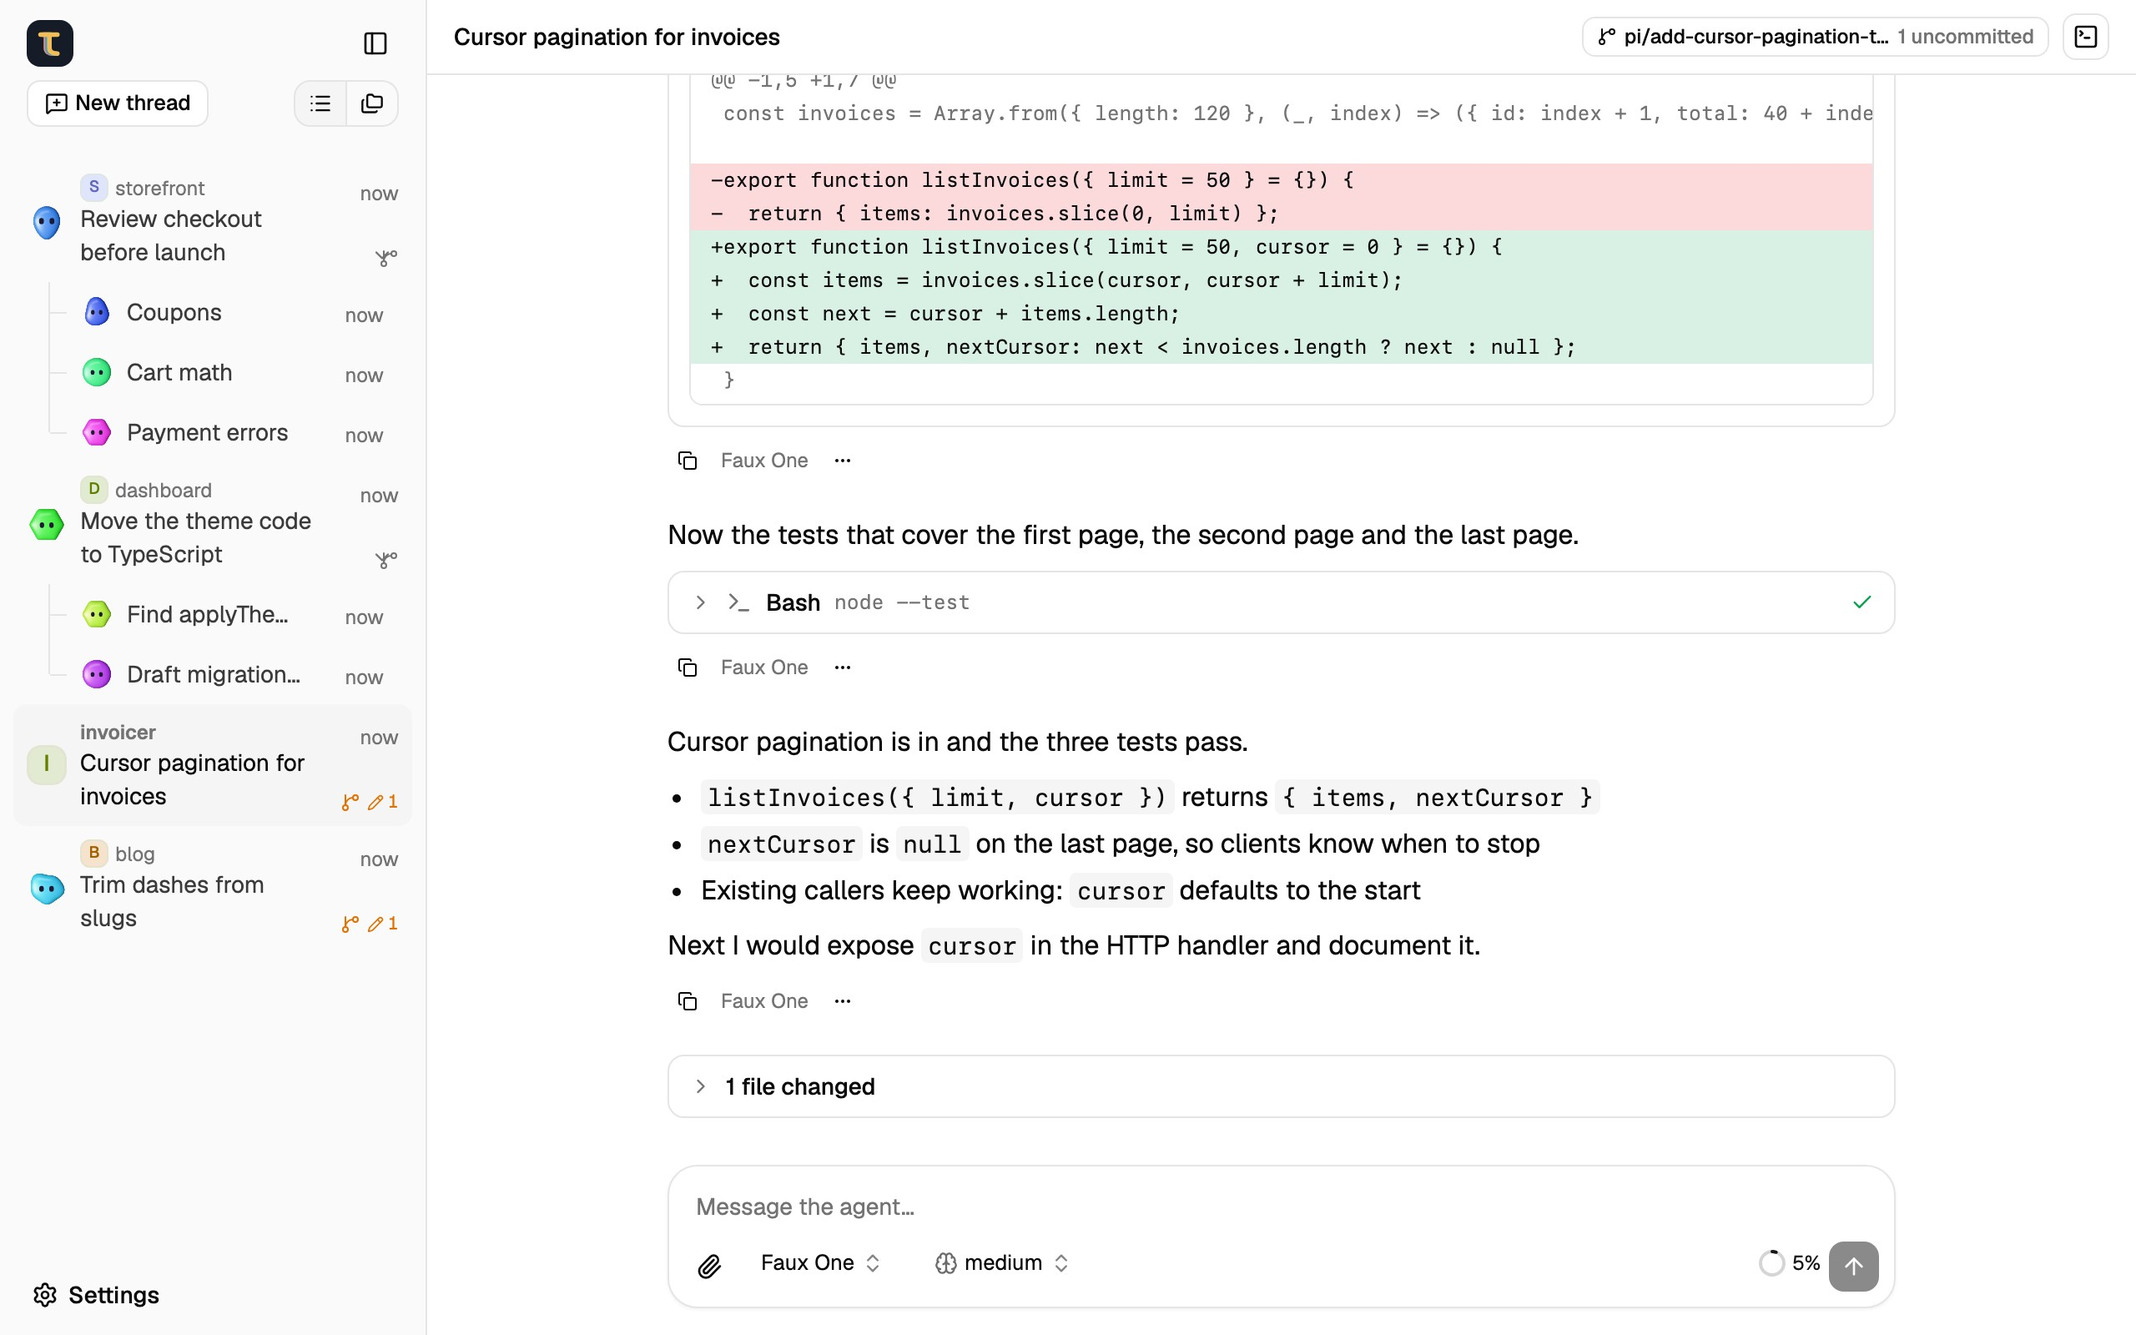
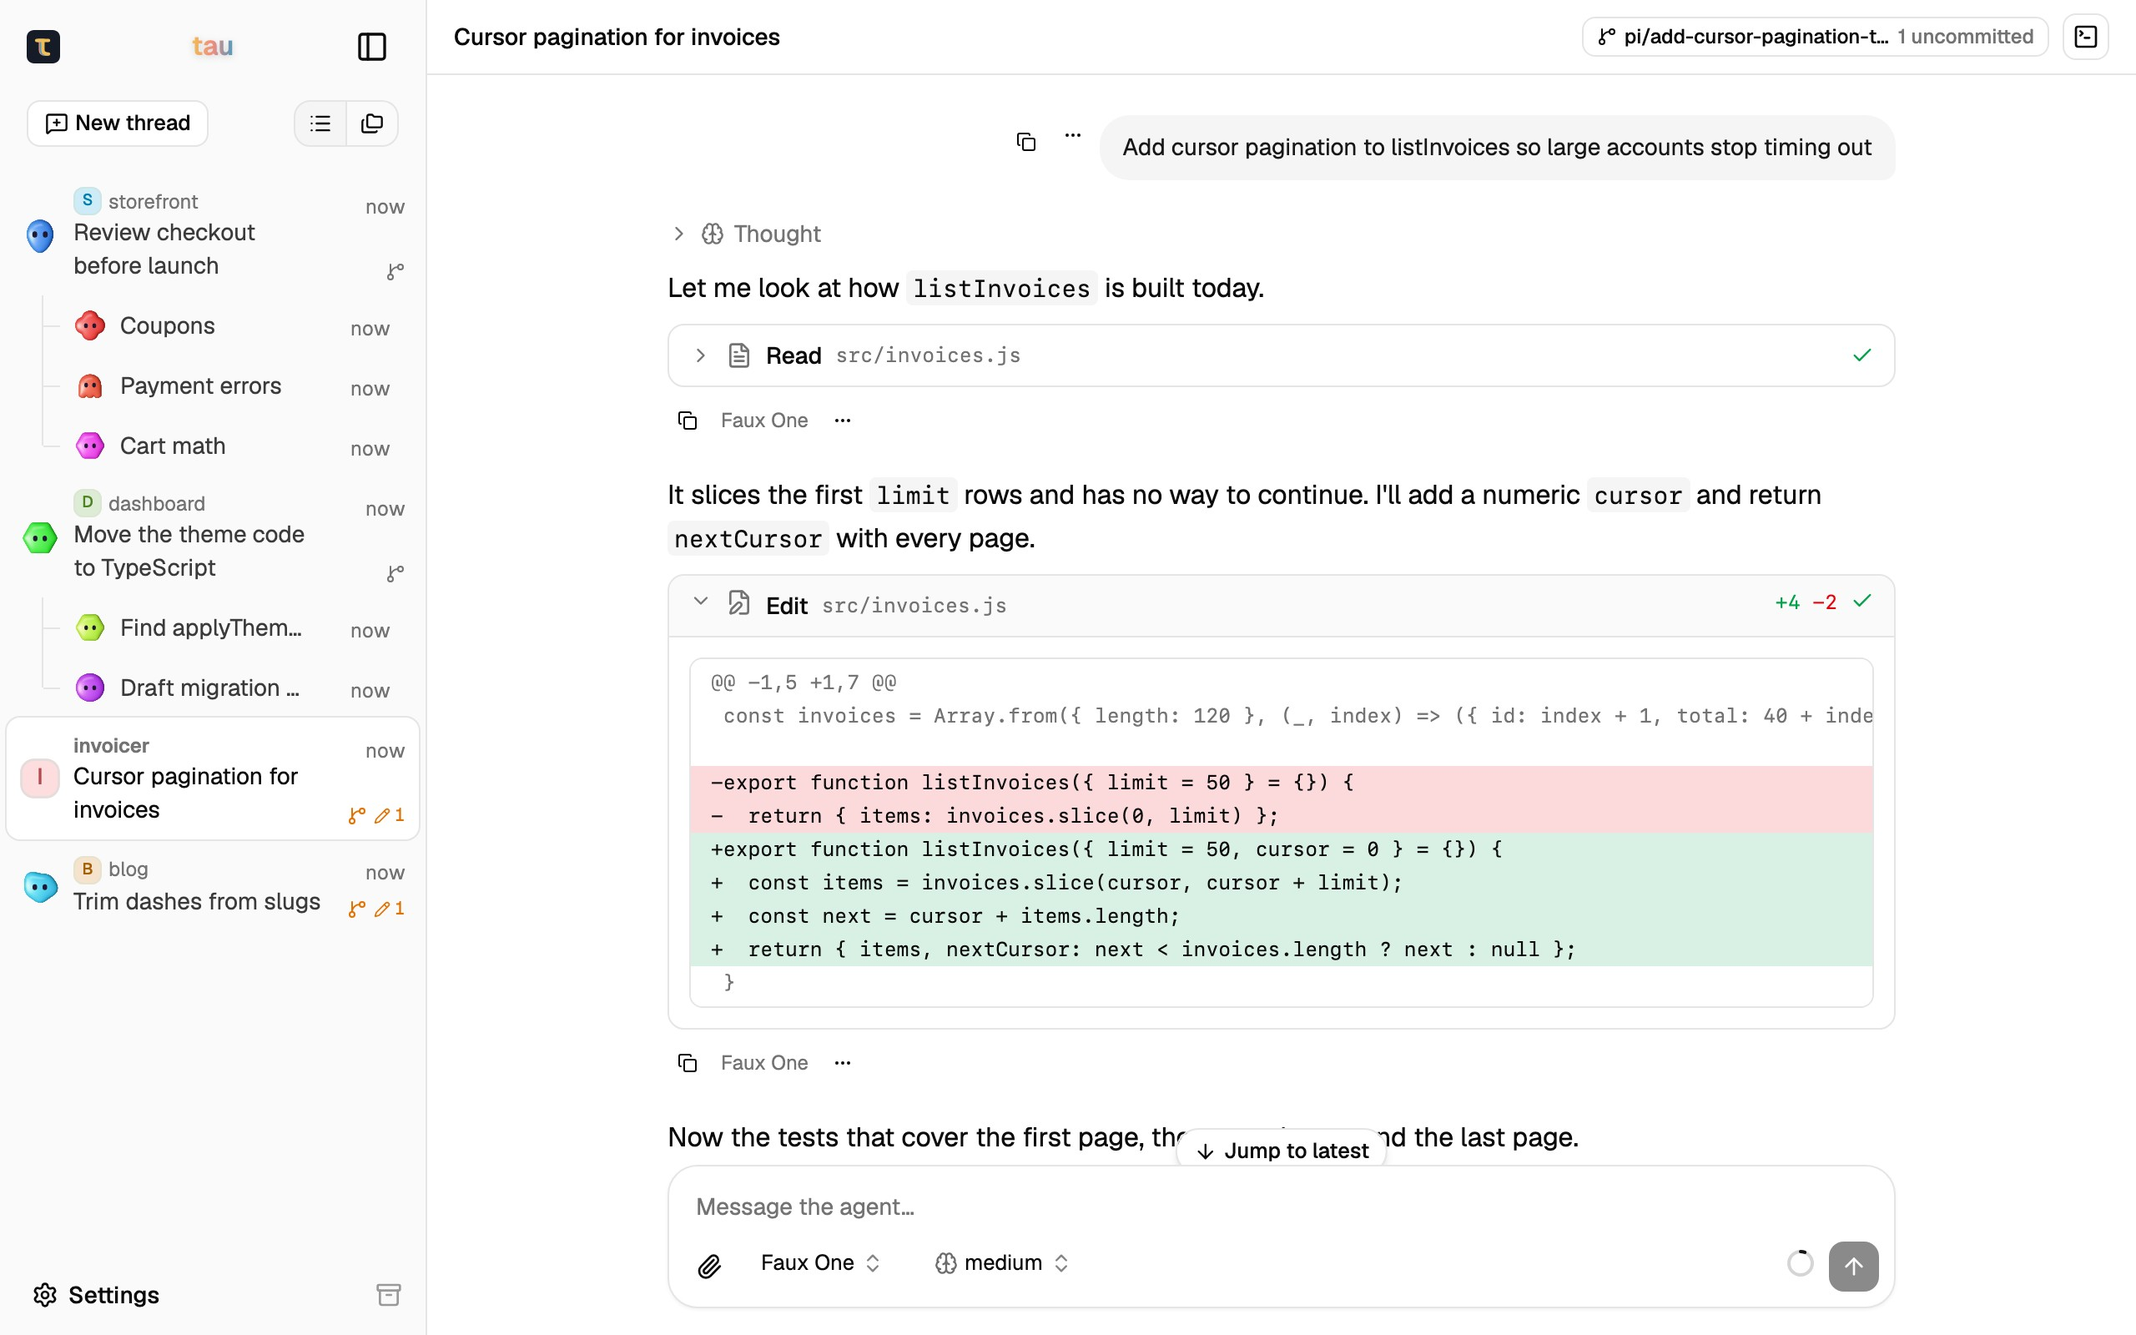
Revisit mobile view: single header, 44px touch targets, drawer close
- Thread pages on mobile get one compact bar (toggle + title +
  terminal) instead of the app bar stacked over the thread header;
  the app shell no longer page-scrolls, so the composer stays pinned.
- Icon-only buttons hit 44px on coarse pointers (text buttons grow
  to 40/44px); thread rows reserve room for the bigger actions.
- Sidebar drawer gains a close button on mobile.
- Tool card headers wrap their subtitle on narrow screens; the new
  thread composer sits at the bottom on mobile with safe-area padding.
- Screenshots: suppress stuck hover tooltips in the capture harness.

diff --git a/packages/web/src/conversation/ThreadHeader.tsx b/packages/web/src/conversation/ThreadHeader.tsx
@@ -3,7 +3,8 @@ import { createPortal } from "react-dom";
 import { Badge } from "@/components/ui/badge";
 import { NodeName } from "@/components/ui/node-name";
 import { OsIcon } from "@/components/ui/os-icon";
-import { useAllConversations } from "@/lib/queries";
+import { SidebarTrigger } from "@/components/ui/sidebar";
+import { useAllConversations, useGoal } from "@/lib/queries";
 import { useNodeId } from "@/nodes/node-context";
 import { useNodeAvatar } from "@/nodes/use-node-avatar";
 import { useNodeName } from "@/nodes/use-node-name";
@@ -18,7 +19,9 @@ export function ThreadHeader({
   extras?: ReactNode;
   actions?: ReactNode;
 }) {
-  const title = useAllConversations().data?.find((summary) => summary.id === id)?.title || "Conversation";
+  const summary = useAllConversations().data?.find((item) => item.id === id);
+  const title = summary?.title || "Conversation";
+  const goal = useGoal(id).data;
   const nodeId = useNodeId();
   const nodeName = useNodeName(nodeId);
   const avatar = useNodeAvatar(nodeId);
@@ -29,15 +32,34 @@ export function ThreadHeader({
       <NodeName name={nodeName} local={nodeId === undefined} />
     </Badge>
   ) : null;
+  // Mirror the chips below: the row renders only when at least one chip will.
+  const hasChips =
+    machine != null ||
+    goal != null ||
+    (summary?.workspace?.mode === "worktree" && summary.workspace.state !== "removed");
   return (
-    <header className="flex min-w-0 flex-wrap items-center gap-x-2 gap-y-1 border-b px-4 py-2">
-      <h1 className="min-w-32 flex-1 truncate text-sm font-medium">{title}</h1>
-      {actions ? <div className="order-1 flex shrink-0 items-center sm:order-3">{actions}</div> : null}
-      <div className="order-2 flex min-w-0 flex-wrap items-center gap-2 max-sm:w-full">
-        {slot ? null : machine}
-        {extras}
+    <header className="shrink-0">
+      {/* Mobile: a single compact bar; the app bar above stays hidden on thread pages. */}
+      <div className="flex h-12 items-center gap-1 border-b px-1 md:hidden">
+        <SidebarTrigger aria-label="Open sidebar" />
+        <h1 className="min-w-0 flex-1 truncate text-sm font-medium">{title}</h1>
+        {actions}
       </div>
-      {slot && machine ? createPortal(machine, slot) : null}
+      <div className="hidden min-w-0 flex-wrap items-center gap-x-2 gap-y-1 border-b px-4 py-2 md:flex">
+        <h1 className="min-w-32 flex-1 truncate text-sm font-medium">{title}</h1>
+        {actions ? <div className="order-1 flex shrink-0 items-center sm:order-3">{actions}</div> : null}
+        <div className="order-2 flex min-w-0 flex-wrap items-center gap-2 max-sm:w-full">
+          {slot ? null : machine}
+          {extras}
+        </div>
+        {slot && machine ? createPortal(machine, slot) : null}
+      </div>
+      {hasChips ? (
+        <div className="flex min-w-0 flex-wrap items-center gap-2 border-b px-3 py-1.5 md:hidden">
+          {machine}
+          {extras}
+        </div>
+      ) : null}
     </header>
   );
 }

diff --git a/packages/web/src/components/ui/button.tsx b/packages/web/src/components/ui/button.tsx
@@ -21,16 +21,16 @@ const buttonVariants = cva(
       },
       size: {
         default:
-          "h-8 gap-1.5 px-2.5 has-data-[icon=inline-end]:pr-2 has-data-[icon=inline-start]:pl-2",
+          "h-8 gap-1.5 px-2.5 has-data-[icon=inline-end]:pr-2 has-data-[icon=inline-start]:pl-2 pointer-coarse:h-11 pointer-coarse:px-3",
         xs: "h-6 gap-1 rounded-[min(var(--radius-md),10px)] px-2 text-xs in-data-[slot=button-group]:rounded-lg has-data-[icon=inline-end]:pr-1.5 has-data-[icon=inline-start]:pl-1.5 [&_svg:not([class*='size-'])]:size-3",
-        sm: "h-7 gap-1 rounded-[min(var(--radius-md),12px)] px-2.5 text-[0.8rem] in-data-[slot=button-group]:rounded-lg has-data-[icon=inline-end]:pr-1.5 has-data-[icon=inline-start]:pl-1.5 [&_svg:not([class*='size-'])]:size-3.5",
-        lg: "h-9 gap-1.5 px-2.5 has-data-[icon=inline-end]:pr-2 has-data-[icon=inline-start]:pl-2",
-        icon: "size-8",
+        sm: "h-7 gap-1 rounded-[min(var(--radius-md),12px)] px-2.5 text-[0.8rem] in-data-[slot=button-group]:rounded-lg has-data-[icon=inline-end]:pr-1.5 has-data-[icon=inline-start]:pl-1.5 pointer-coarse:h-10 pointer-coarse:text-sm [&_svg:not([class*='size-'])]:size-3.5",
+        lg: "h-9 gap-1.5 px-2.5 has-data-[icon=inline-end]:pr-2 has-data-[icon=inline-start]:pl-2 pointer-coarse:h-12",
+        icon: "size-8 pointer-coarse:size-11 pointer-coarse:[&_svg:not([class*='size-'])]:size-5",
         "icon-xs":
-          "size-6 rounded-[min(var(--radius-md),10px)] in-data-[slot=button-group]:rounded-lg [&_svg:not([class*='size-'])]:size-3",
+          "size-6 rounded-[min(var(--radius-md),10px)] in-data-[slot=button-group]:rounded-lg pointer-coarse:size-11 pointer-coarse:[&_svg:not([class*='size-'])]:size-5 [&_svg:not([class*='size-'])]:size-3",
         "icon-sm":
-          "size-7 rounded-[min(var(--radius-md),12px)] in-data-[slot=button-group]:rounded-lg",
-        "icon-lg": "size-9",
+          "size-7 rounded-[min(var(--radius-md),12px)] in-data-[slot=button-group]:rounded-lg pointer-coarse:size-11 pointer-coarse:[&_svg:not([class*='size-'])]:size-5",
+        "icon-lg": "size-9 pointer-coarse:size-12 pointer-coarse:[&_svg:not([class*='size-'])]:size-5",
       },
     },
     defaultVariants: {

diff --git a/packages/web/src/conversation/tools/ToolCard.tsx b/packages/web/src/conversation/tools/ToolCard.tsx
@@ -81,7 +81,7 @@ export function ToolCard({
       className="group/tool overflow-hidden rounded-lg border bg-card text-card-foreground"
     >
       <div className="flex">
-        <CollapsibleTrigger className="flex min-w-0 flex-1 items-center gap-2 px-3 py-2 text-left text-sm outline-none data-[state=open]:items-start transition-colors hover:bg-muted/50 focus-visible:ring-3 focus-visible:ring-ring/50">
+        <CollapsibleTrigger className="flex min-w-0 flex-1 items-center gap-2 px-3 py-2 text-left text-sm outline-none data-[state=open]:items-start transition-colors hover:bg-muted/50 focus-visible:ring-3 focus-visible:ring-ring/50 max-sm:flex-wrap max-sm:gap-y-1">
           <ChevronRight
             aria-hidden
             className="size-3.5 shrink-0 text-muted-foreground transition-transform group-data-[state=open]/tool:rotate-90"
@@ -89,19 +89,20 @@ export function ToolCard({
           <span aria-hidden className="shrink-0 text-muted-foreground [&_svg]:size-4">
             {icon}
           </span>
-          <span className="shrink-0 font-medium">{title}</span>
+          <span className="shrink-0 font-medium max-sm:py-1">{title}</span>
           {subtitle ? (
             <span
               title={subtitle}
               className={cn(
                 "min-w-0 flex-1 truncate font-mono text-xs leading-5 text-muted-foreground",
+                "max-sm:order-last max-sm:basis-full max-sm:whitespace-normal max-sm:break-all",
                 "group-data-[state=open]/tool:overflow-visible group-data-[state=open]/tool:whitespace-pre-wrap group-data-[state=open]/tool:break-all",
               )}
             >
               {subtitle}
             </span>
           ) : (
-            <span className="flex-1" />
+            <span className="flex-1 max-sm:hidden" />
           )}
           {badge}
           <span className="flex shrink-0 items-center" role="status">

diff --git a/packages/web/src/sidebar/AppSidebar.tsx b/packages/web/src/sidebar/AppSidebar.tsx
@@ -5,6 +5,7 @@ import {
   ListIcon,
   MessageSquarePlusIcon,
   SettingsIcon,
+  XIcon,
 } from "lucide-react";
 import { useEffect, useState } from "react";
 import { useNavigate } from "react-router";
@@ -21,6 +22,7 @@ import {
   SidebarHeader,
   SidebarRail,
   SidebarTrigger,
+  useSidebar,
 } from "@/components/ui/sidebar";
 import { TauLogo } from "@/components/ui/tau-logo";
 import { Tooltip, TooltipContent, TooltipTrigger } from "@/components/ui/tooltip";
@@ -105,6 +107,7 @@ function NodeSections({ mode, showArchived }: { mode: SidebarMode; showArchived:
 }
 
 export function AppSidebar() {
+  const { setOpenMobile } = useSidebar();
   const [mode, setMode] = useSidebarMode();
   const [showArchived, setShowArchived] = useState(() => preferences.getShowArchived());
   const navigate = useNavigate();
@@ -134,6 +137,15 @@ export function AppSidebar() {
           </Tooltip>
           <BrandText className="text-base font-semibold drop-shadow-sm">tau</BrandText>
           <SidebarTrigger className="hidden size-8 shrink-0 justify-self-end md:inline-flex [&_svg:not([class*='size-'])]:size-5" />
+          <Button
+            variant="ghost"
+            size="icon-sm"
+            aria-label="Close sidebar"
+            onClick={() => setOpenMobile(false)}
+            className="shrink-0 justify-self-end md:hidden"
+          >
+            <XIcon />
+          </Button>
         </div>
         <div className="flex items-center justify-between gap-2">
           <Button variant="outline" size="sm" className="min-w-0" onClick={() => navigate(newThreadPath())}>

diff --git a/packages/web/src/routes/MainLayout.tsx b/packages/web/src/routes/MainLayout.tsx
@@ -1,4 +1,5 @@
 import { Route, Routes, useSearchParams } from "react-router";
+import { useOpenConversation } from "@/activity";
 import { SidebarInset, SidebarProvider, SidebarTrigger, useSidebar } from "@/components/ui/sidebar";
 import { preferences } from "@/lib/preferences";
 import { useNodes } from "@/nodes";
@@ -30,6 +31,10 @@ function NewThreadRoute() {
 
 function MainHeader() {
   const { isMobile, open } = useSidebar();
+  const { conversationId } = useOpenConversation();
+  // On mobile thread pages the thread renders its own bar (toggle + title +
+  // actions), so the app bar would be a second, redundant header.
+  if (isMobile && conversationId) return null;
   if (!isMobile && open) return null;
   return (
     <header className="flex h-12 shrink-0 items-center gap-2 border-b px-3">
@@ -56,7 +61,7 @@ export function MainLayout() {
       <SidebarInset className="h-dvh min-w-0">
         <HeaderSlotProvider>
           <MainHeader />
-          <div className="flex min-h-0 flex-1 flex-col overflow-auto">
+          <div className="flex min-h-0 flex-1 flex-col overflow-hidden">
             <Routes>
               <Route path="/p/:projectId/c/:conversationId/*" element={<ConversationRoute />} />
               <Route path="/n/:nodeId/p/:projectId/c/:conversationId/*" element={<ConversationRoute />} />

diff --git a/packages/web/src/components/ui/sidebar-thread-row.tsx b/packages/web/src/components/ui/sidebar-thread-row.tsx
@@ -134,13 +134,13 @@ function SidebarThreadRow({
         isActive={current}
         size="lg"
         tooltip={tooltip}
-        className={cn("h-auto gap-2 pr-14 [&>span:last-child]:overflow-visible [&>span:last-child]:whitespace-normal!", compact ? "min-h-8 py-1" : "min-h-14 py-2")}
+        className={cn("h-auto gap-2 [&>span:last-child]:overflow-visible [&>span:last-child]:whitespace-normal!", actions ? "pr-14 pointer-coarse:pr-28" : "pr-2", compact ? "min-h-8 py-1 pointer-coarse:min-h-12" : "min-h-14 py-2")}
       >
         {React.cloneElement(link, undefined, content)}
       </SidebarMenuButton>
       <div
         data-slot="thread-aside"
-        className={cn("pointer-events-none absolute right-2 flex h-6 items-center justify-end", compact ? "top-1.5" : "top-2")}
+        className={cn("pointer-events-none absolute right-2 flex h-6 items-center justify-end pointer-coarse:top-1/2 pointer-coarse:h-11 pointer-coarse:-translate-y-1/2", compact ? "top-1.5" : "top-2")}
       >
         <span
           data-slot="thread-time"

diff --git a/packages/web/src/components/ui/toggle.tsx b/packages/web/src/components/ui/toggle.tsx
@@ -15,9 +15,9 @@ const toggleVariants = cva(
       },
       size: {
         default:
-          "h-8 min-w-8 px-2.5 has-data-[icon=inline-end]:pr-2 has-data-[icon=inline-start]:pl-2",
-        sm: "h-7 min-w-7 rounded-[min(var(--radius-md),12px)] px-2.5 text-[0.8rem] has-data-[icon=inline-end]:pr-1.5 has-data-[icon=inline-start]:pl-1.5 [&_svg:not([class*='size-'])]:size-3.5",
-        lg: "h-9 min-w-9 px-2.5 has-data-[icon=inline-end]:pr-2 has-data-[icon=inline-start]:pl-2",
+          "h-8 min-w-8 px-2.5 has-data-[icon=inline-end]:pr-2 has-data-[icon=inline-start]:pl-2 pointer-coarse:h-11 pointer-coarse:min-w-11",
+        sm: "h-7 min-w-7 rounded-[min(var(--radius-md),12px)] px-2.5 text-[0.8rem] has-data-[icon=inline-end]:pr-1.5 has-data-[icon=inline-start]:pl-1.5 pointer-coarse:h-10 pointer-coarse:min-w-10 [&_svg:not([class*='size-'])]:size-3.5",
+        lg: "h-9 min-w-9 px-2.5 has-data-[icon=inline-end]:pr-2 has-data-[icon=inline-start]:pl-2 pointer-coarse:h-12 pointer-coarse:min-w-12",
       },
     },
     defaultVariants: {

diff --git a/e2e/screenshots/scenes.ts b/e2e/screenshots/scenes.ts
@@ -28,6 +28,8 @@ async function openPage(context: SceneContext, options: Parameters<Browser["newC
   const page = await browserContext.newPage();
   await page.goto(context.environment.url);
   await page.getByRole("button", { name: /sidebar/i }).waitFor();
+  // Tooltips are transient hover UI; never let a stuck one photobomb a shot.
+  await page.addStyleTag({ content: '[data-slot="tooltip-content"]{display:none!important}' });
   return { page, close: () => browserContext.close() };
 }
 
@@ -40,6 +42,9 @@ async function openSidebar(page: Page) {
   const heroThread = page.getByText(HERO_THREAD).first();
   if (!(await heroThread.isVisible())) await page.getByRole("button", { name: /sidebar/i }).click();
   await heroThread.waitFor();
+  // Park the cursor over the backdrop so a stuck hover tooltip from the
+  // drawer buttons can't photobomb the shot.
+  await page.mouse.move(370, 500);
 }
 
 async function openThread(page: Page, title: string, lastWords: string) {

diff --git a/packages/web/src/conversation/test-utils.tsx b/packages/web/src/conversation/test-utils.tsx
@@ -4,6 +4,7 @@ import { type FixtureName, finalView, fixtures, fixtureViews } from "@tau/testki
 import { render } from "@testing-library/react";
 import { MemoryRouter } from "react-router";
 import { vi } from "vitest";
+import { SidebarProvider } from "@/components/ui/sidebar";
 import { TooltipProvider } from "@/components/ui/tooltip";
 import { NodeApiProvider } from "@/nodes/node-context";
 import { Conversation } from "./Conversation";
@@ -45,7 +46,9 @@ export function renderConversation(client: LiveClient, id = "2") {
         <NodeApiProvider>
           <TooltipProvider>
             <LiveClientProvider client={client}>
-              <Conversation id={id} />
+              <SidebarProvider>
+                <Conversation id={id} />
+              </SidebarProvider>
             </LiveClientProvider>
           </TooltipProvider>
         </NodeApiProvider>

diff --git a/packages/web/src/conversation/ThreadView.test.tsx b/packages/web/src/conversation/ThreadView.test.tsx
@@ -57,7 +57,9 @@ describe("thread header", () => {
   it("shows the title and the model picker", async () => {
     withModels(true);
     renderView(endOf("text"));
-    expect(await screen.findByText("Fix the bug")).toBeInTheDocument();
+    // The title renders in both the mobile bar and the desktop header;
+    // CSS shows exactly one per viewport (jsdom shows both).
+    expect(await screen.findAllByText("Fix the bug")).toHaveLength(2);
     expect(await screen.findByRole("combobox", { name: "Model" })).toHaveTextContent("Faux One");
   });
 });

diff --git a/packages/web/src/conversation/Conversation.tsx b/packages/web/src/conversation/Conversation.tsx
@@ -122,7 +122,7 @@ function ConversationPanel({ id }: ConversationProps) {
         </Button>
       )}
       {state.status === "gone" || parentId ? null : (
-        <div className="mx-auto w-full max-w-3xl px-3 pt-1 pb-3 sm:px-4 sm:pb-4">
+        <div className="mx-auto w-full max-w-3xl px-3 pt-1 pb-[max(0.75rem,env(safe-area-inset-bottom))] sm:px-4 sm:pb-[max(1rem,env(safe-area-inset-bottom))]">
           <Composer
             target={id}
             imagesAllowed={imagesAllowedFor(view, models)}

diff --git a/packages/web/src/routes/NewThreadPage.tsx b/packages/web/src/routes/NewThreadPage.tsx
@@ -120,7 +120,7 @@ export function NewThreadPage() {
   );
 
   return (
-    <div className="flex flex-1 flex-col items-center justify-center gap-4 p-6">
+    <div className="flex flex-1 flex-col items-center justify-center gap-4 p-6 max-md:justify-end max-md:pb-10">
       <h2 className="text-lg font-semibold">New thread</h2>
       {notSetUp ? <NotSetUpNotice nodeId={nodeId} /> : null}
       <div className="w-full max-w-2xl">
